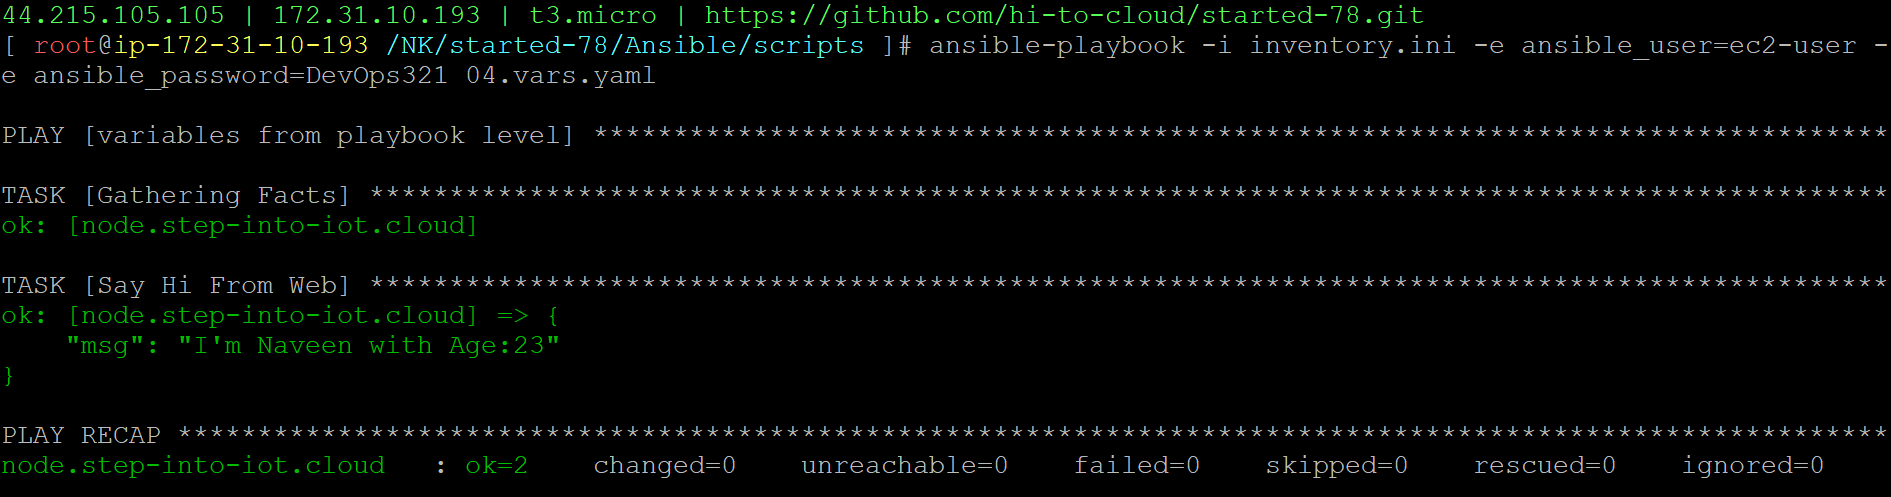
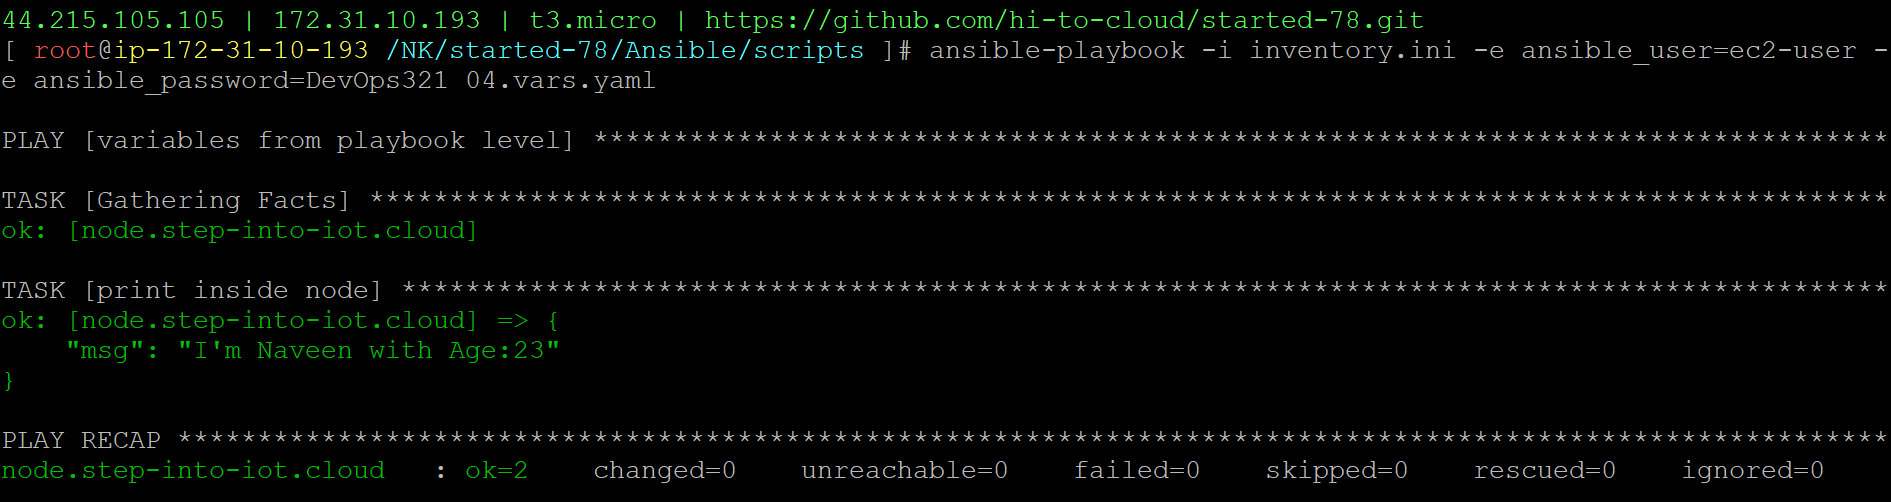
Added Ansible

diff --git a/Ansible/scripts/06.vars-file.md b/Ansible/scripts/06.vars-file.md
@@ -1,0 +1,22 @@
+### variables from file level
+06.vars-file.yaml
+```
+- name: variables from file level
+  hosts: node
+  vars_files:
+    - 06.var-file.yml
+  tasks:
+  - name: print inside node
+    ansible.builtin.debug:
+      msg: "I'm {{NAME}} with Age:{{AGE}}"
+```
+06.var-file.yml
+```
+NAME: "Naveen"
+AGE: 23
+```
+```
+ansible-playbook -i inventory.ini -e ansible_user=ec2-user -e ansible_password=DevOps321 06.vars-file.yaml
+```
+#### playbook execution
+![ping-playbook](../img/vars-file-playbook.png)
